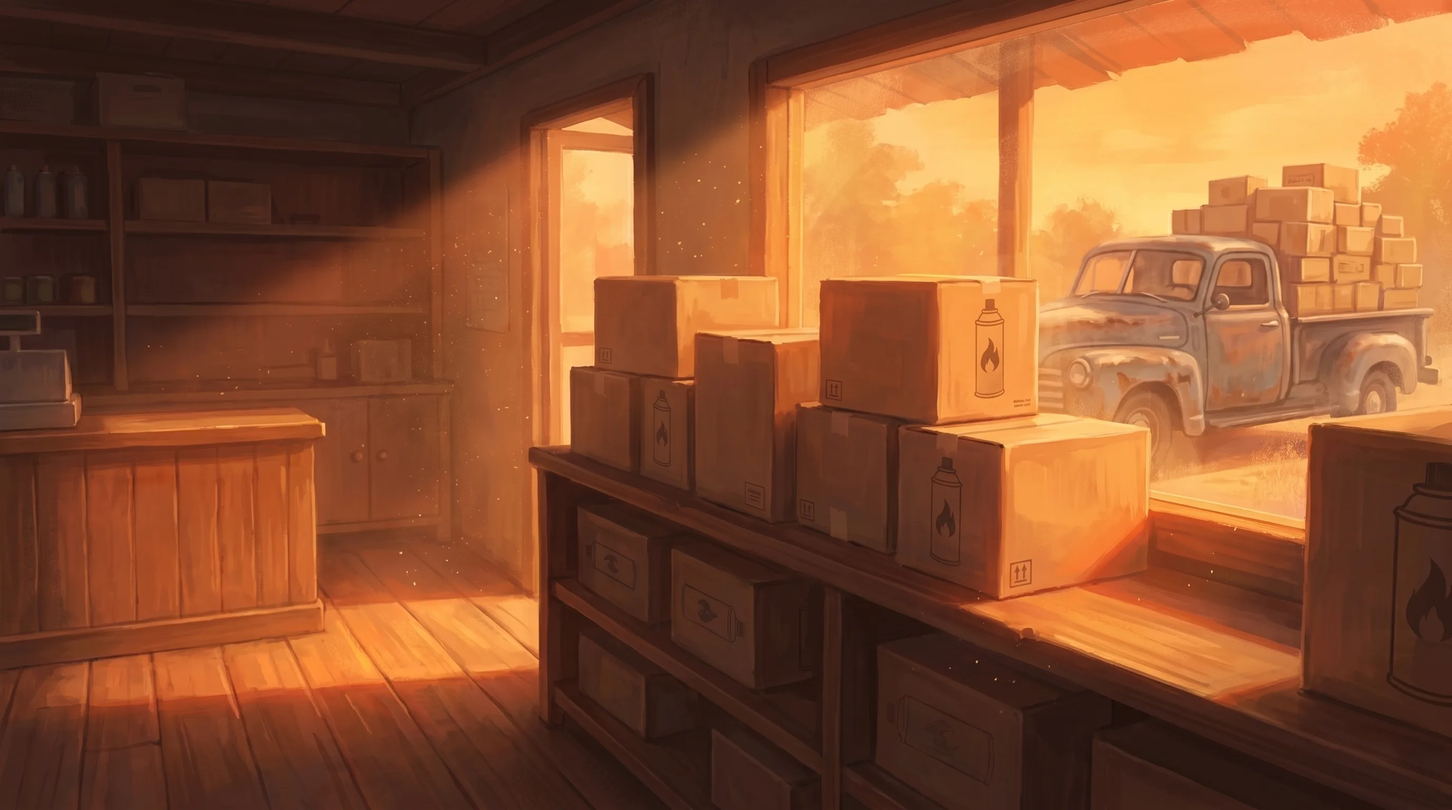
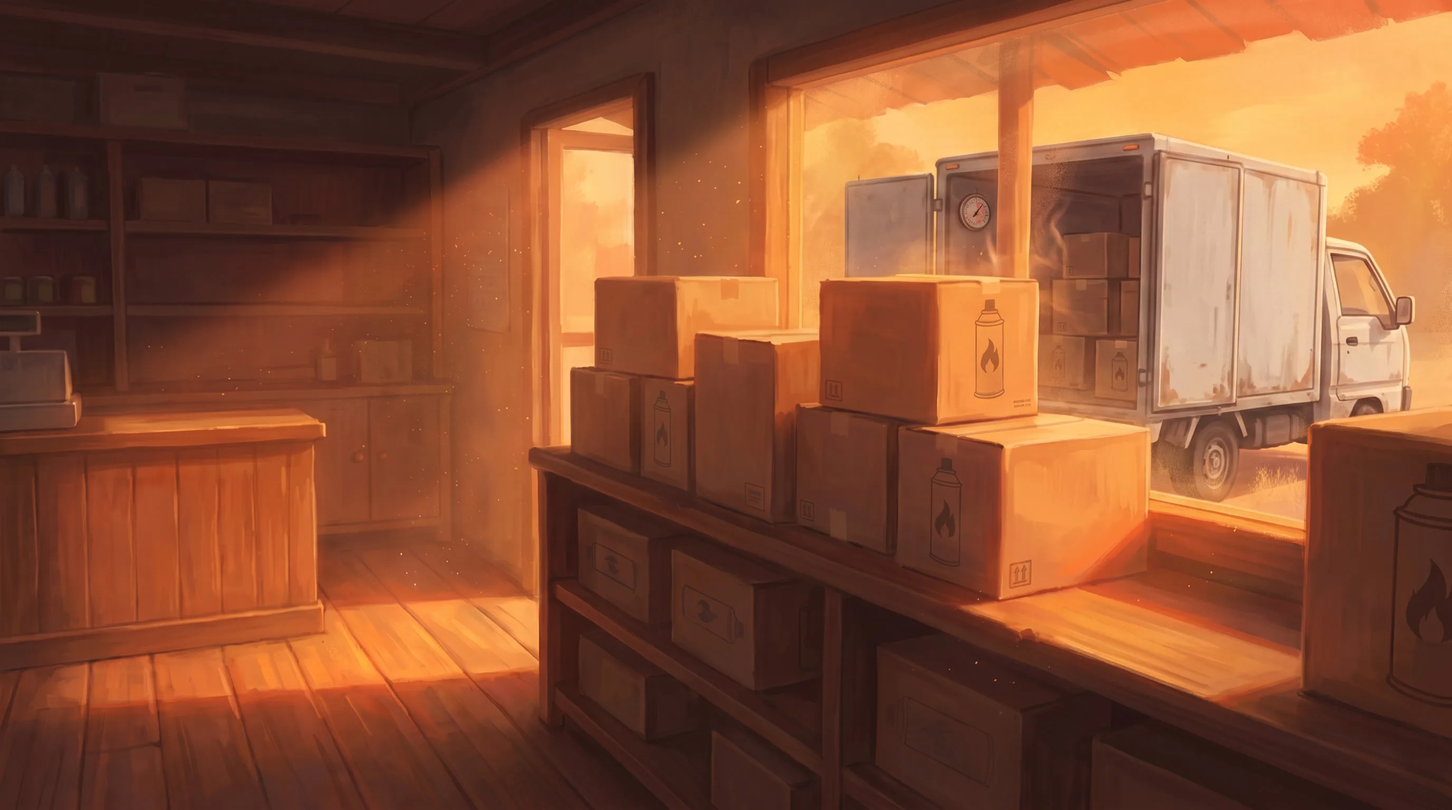
어휘를 초·중·고 눈높이로 낮추고 매점 트럭을 박스형 짐칸으로 교체한다
- 매점 그림: 상자가 트럭 밖에 쌓여 보이던 픽업을, 뒷문이 열린 박스형
  짐칸(탑차) 안에 상자가 실려 있고 안쪽에 온도계가 걸린 모습으로
  재생성 — '여름철 차 안 60℃' 교육 포인트와 그림이 일치하게 된다
- 어휘 순화 약 50건: 호언→큰소리, 실토→고백, 결재란→사장 확인 칸,
  심증→짐작, 혈연→가족·친척, 전조→위험 신호/터지기 직전의 신호,
  결로→김·물방울, 밀폐→꽉 닫힌, 체결→끼워짐, 전량 수거→전부
  거둬들임, 황색·황적색→노랗거나 붉은, 동시다발→한꺼번에,
  각인→새겨진 제조일, 투숙객→(펜션) 손님, 시공기사→설치 기사 등
- 교육 용어는 삭제 대신 괄호 풀이: 삼발이(불판 받침대),
  복사열(불판이 내뿜는 뜨거운 열), 명판(정보판), 헤모글로빈(피 속에서
  산소가 앉을 자리)
- 시나리오 린트(길이·금지문자·참조 무결성)와 전체 플레이 자동 검증
  전 항목 재통과

Claude-Session: https://claude.ai/code/session_01Fh2RqJgq2fRfiCvRSuSJA6

Changed region(s): [[0.5625, 0.1562, 1.0, 0.625], [0.8125, 0.8438, 0.8438, 0.875]]

diff --git a/index.html b/index.html
@@ -626,7 +626,7 @@
     <div class="inspect-stage">
       <div class="inspect-frame corners">
         <canvas id="inspectCanvas"></canvas>
-        <div class="stamp" id="inspectStamp">각인 발견</div>
+        <div class="stamp" id="inspectStamp">제조일 발견</div>
       </div>
       <div class="inspect-hint" id="inspectHint"></div>
     </div>
@@ -664,7 +664,7 @@ const CDN = {
   bbq:       "hf_20260830_072115_62f6d85f-29f7-456d-8ecb-0d0b239367d9.png",
   nextsite:  "hf_20260830_072804_cfa355f0-2b12-44d6-ab17-3af40ef0b33d.png",
   firepit:   "hf_20260830_072804_abbdf6dc-af73-47ec-a43c-f13f3091c863.png",
-  store:     "hf_20260830_072804_e169c3ab-7cf1-45ba-9ebb-c7c429c05c68.png",
+  store:     "hf_20260830_093423_4fd75d13-f33a-4f39-aa3b-bba1befa0dc4.png",
   end1:      "hf_20260830_072804_01d0bb1c-1998-4e6c-9203-d6b1153d2222.png",
   boss:      "hf_20260830_073617_b1add7f9-16a8-4cb9-9c87-09633adcf816.png",
   parttime:  "hf_20260830_073619_e1d8eb9e-8393-4f46-ba37-43a55f4158a9.png",
@@ -833,18 +833,18 @@ const CASE1 = {
   /* ---------- 단서 ---------- */
   CLUES: {
     c1:{ name:"파열된 부탄캔", desc:"옆구리가 찢긴 채 나뒹구는 캔. 터지기 직전의 캔은 부풀어 오르며 쉭쉭 소리를 낸다. 파열방지기능 제품이었다면 찢김 대신 가스 배출로 끝났을 것이다." },
-    c2:{ name:"삼발이보다 큰 불판", desc:"레인지의 삼발이를 완전히 덮는 대형 불판. 복사열이 고스란히 아래 부탄캔을 데워 내부 압력을 키운다 — 부탄캔 5대 금지의 첫 번째 항목이다." },
+    c2:{ name:"삼발이보다 큰 불판", desc:"레인지의 삼발이(불판 받침대)를 완전히 덮는 대형 불판. 불판이 내뿜는 뜨거운 열(복사열)이 고스란히 아래 부탄캔을 데워 캔 속 압력을 키운다 — 부탄캔 5대 금지의 첫 번째 항목이다." },
     c3:{ name:"포일 감은 석쇠", desc:"알루미늄 포일로 꽁꽁 감싼 석쇠. 빠져나가야 할 열이 갇혀 캔 쪽으로 쏠린다. 포일 감은 석쇠·불판 사용은 부탄캔 5대 금지 수칙 중 하나다." },
     c4:{ name:"나란히 붙인 레인지", desc:"휴대용 레인지 2대가 딱 붙어 있다. 옆 화구의 열이 서로의 캔을 데운다 — 여러 대를 붙여 쓰는 병렬 배치도, 위아래로 쌓는 이단 적재도 금지다." },
     c5:{ name:"숯불 곁의 예비 캔", desc:"이글거리는 화로 바로 옆에 부탄캔들이 줄지어 서 있다. 쪽지엔 '찬 캔은 불 옆에서 데우면 잘 나옴'. 화기 근처 방치도, 직접 가열도 절대 금지다." },
-    c6:{ name:"함부로 버려진 폐캔", desc:"캡도 씌우지 않은 폐캔들이 화로 곁에 나뒹군다. 다 쓴 캔은 연소기에서 분리해 캡을 씌워 서늘한 곳에 — 폐기는 야외에서 바람을 등지고 잔가스를 뺀 뒤에 한다." },
+    c6:{ name:"함부로 버려진 폐캔", desc:"캡도 씌우지 않은 폐캔들이 화로 곁에 나뒹군다. 다 쓴 캔은 레인지에서 바로 분리해 캡을 씌워 서늘한 곳에 — 폐기는 야외에서 바람을 등지고 잔가스를 뺀 뒤에 한다." },
     c7:{ name:"볕에 달궈진 재고", desc:"매점 창가, 한여름 직사광선에 달궈진 부탄캔 박스. 제조일이 3년을 넘겼다 — 부탄캔 권장사용기간은 제조일로부터 3년이다." },
-    c8:{ name:"트럭 짐칸의 온도계", desc:"재고를 실어 나르던 트럭 짐칸의 온도계가 60℃ 를 가리킨다. 여름철 차량 내부는 트렁크까지 60℃ 를 넘본다 — 부탄캔 보관은 40℃ 미만 장소가 원칙이다." }
+    c8:{ name:"트럭 짐칸의 온도계", desc:"재고를 실어 나르던 트럭 짐칸 안의 온도계가 60℃ 를 가리킨다. 여름철 차 안은 트렁크까지 60℃ 넘게 치솟는다 — 부탄캔 보관은 40℃ 미만 장소가 원칙이다." }
   },
   TESTI: {
-    t1:{ name:"초롱의 목격담", desc:"\"캔이 부풀면서 쉭쉭 소리가 났어요. 배운 대로 '모두 물러나요!' 하고 소리쳤어요.\" — 파열 전조를 알아챈 열두 살의 외침이 인명피해를 막았다." },
-    t2:{ name:"알바의 해명", desc:"\"부푼 캔을 새것으로 바꾸려 했는데 '가스 아깝다'며 제지당했어요.\" — 잔가스를 아끼려다 목숨을 건다." },
-    t3:{ name:"고수의 호언", desc:"\"20년 그렇게 써도 무사고였소.\" — 사고가 안 났던 습관은 안전의 증거가 아니라, 아직 안 터진 폭탄이다." }
+    t1:{ name:"초롱의 목격담", desc:"\"캔이 부풀면서 쉭쉭 소리가 났어요. 배운 대로 '모두 물러나요!' 하고 소리쳤어요.\" — 터지기 직전의 신호를 알아챈 열두 살의 외침이 인명피해를 막았다." },
+    t2:{ name:"알바의 해명", desc:"\"부푼 캔을 새것으로 바꾸려 했는데 '가스 아깝다'며 막아섰어요.\" — 잔가스를 아끼려다 목숨을 건다." },
+    t3:{ name:"고수의 큰소리", desc:"\"20년 그렇게 써도 무사고였소.\" — 사고가 안 났던 습관은 안전의 증거가 아니라, 아직 안 터진 폭탄이다." }
   },
 
   /* ---------- 방 ---------- */
@@ -852,7 +852,7 @@ const CASE1 = {
     bbq:{ title:"사고 그늘막", img:"bbq", spots:[
       { label:"터진 부탄캔을 살펴본다", clue:"c1" },
       { label:"레인지와 불판을 살펴본다", clue:"c2" },
-      { label:"캔 바닥의 각인을 확인한다", inspect:"can", needs:"c1" } ] },
+      { label:"캔 바닥을 뒤집어 살펴본다", inspect:"can", needs:"c1" } ] },
     nextsite:{ title:"옆 사이트", img:"nextsite", spots:[
       { label:"포일 감은 석쇠를 살펴본다", clue:"c3" },
       { label:"레인지 두 대를 살펴본다", clue:"c4" } ] },
@@ -867,7 +867,7 @@ const CASE1 = {
   /* ---------- 인물 ---------- */
   PEOPLE: {
     boss:{ name:"나원래 · 사장(56)", img:"boss",
-      desc:"캠핑장 '별무리'의 사장. 손님에게 늘 서비스를 돌리는 호인 — 오늘따라 낯빛이 어둡다.",
+      desc:"캠핑장 '별무리'의 사장. 손님에게 늘 서비스를 돌리는 마음 좋은 아저씨 — 오늘따라 얼굴빛이 어둡다.",
       qs:[
         { q:"사고 당시 어디 계셨습니까?",
           a:"매점 마감 정리 중이었죠. 펑 소리에 심장이 내려앉았습니다. 크게 다친 분이 없다는 게 기적이에요." },
@@ -887,17 +887,17 @@ const CASE1 = {
           a:"네! 부푼 캔을 빼려는데 옆 사이트 아저씨가 '가스 반이나 남았는데 아깝게 왜 바꾸냐'며 도로 끼우게 했어요. 잔가스 아끼려다 큰일 난다는 걸 다들 몰라요." }
       ]},
     camper:{ name:"구백동 · 캠퍼(51)", img:"camper",
-      desc:"옆 사이트의 자칭 '캠핑 20년 고수'. 장비 자랑이 길어질수록 눈빛이 흔들린다.",
+      desc:"스스로를 '캠핑 20년 고수'라 부르는 옆 사이트 아저씨. 장비 자랑이 길어질수록 눈빛이 흔들린다.",
       qs:[
         { q:"어젯밤 뭘 하고 계셨죠?",
           a:"내 사이트에서 고기 굽고 있었죠. 내 장비 보셨소? 20년 캠핑에 사고 한 번 없었습니다. 이번 일은 저 알바가 뭘 잘못 만졌겠지." },
         { q:"저 대형 불판, 당신 겁니까?", need:"c2",
           a:"빌려준 거요. 삼발이보다 커야 고기가 많이 올라가지. 다들 그렇게 씁니다. 포일? 기름 안 튀게 감은 건데 그게 왜요?" },
         { q:"알바를 막아섰다면서요?", need:"t2", testi:"t3",
-          a:"…가스가 반이나 남았는데 버리면 낭비 아니오. 20년을 그렇게 썼어도 무사했단 말이오. (목소리가 점점 잦아든다) …어제까지는." }
+          a:"…가스가 반이나 남았는데 버리면 낭비 아니오. 20년을 그렇게 썼어도 무사했단 말이오. (목소리가 점점 작아진다) …어제까지는." }
       ]},
     daughter:{ name:"김초롱 · 초등학생(12)", img:"daughter",
-      desc:"피해 가족의 딸. 놀란 기색보다 또렷한 눈빛이 앞선다 — 무언가 확실히 보고 들었다.",
+      desc:"피해 가족의 딸. 놀란 얼굴보다 또렷한 눈빛이 앞선다 — 무언가 확실히 보고 들었다.",
       qs:[
         { q:"어제 일을 말해줄 수 있니?",
           a:"고기 굽는데 캔 쪽에서 쉭쉭 소리가 났어요. 학교 안전교육에서 '캔이 부풀면 위험 신호'라고 배웠는데, 딱 그거였어요." },
@@ -916,9 +916,9 @@ const CASE1 = {
     { name:"한세인", text:"단서 8개를 모으고 사람들의 이야기를 들은 뒤, 이 파열음의 진짜 원인을 가려내자.", img:"bbq", pt:"detective" }
   ],
   REVEAL: [
-    { name:"한세인", text:"결론부터 말씀드리죠. 이 사고의 범인은 한 사람이 아닙니다 — 다섯 겹으로 쌓인 안전불감증입니다.", pt:"detective", img:"bbq" },
+    { name:"한세인", text:"결론부터 말씀드리죠. 이 사고의 범인은 한 사람이 아닙니다 — '설마 괜찮겠지'가 다섯 겹으로 쌓인 안전불감증입니다.", pt:"detective", img:"bbq" },
     { name:"한세인", text:"삼발이보다 큰 불판이 복사열로 캔을 데웠습니다. 그 캔은 제조 3년을 넘긴 채, 60℃ 트럭 짐칸에서 여름을 난 재고였고요.", pt:"detective", img:"store" },
-    { name:"나원래", text:"아깝다고 돌린 서비스가… 폭탄을 돌린 꼴이 됐군요. 재고는 전량 수거하고, 보관도 규정대로 하겠습니다.", pt:"boss", img:"store" },
+    { name:"나원래", text:"아깝다고 돌린 서비스가… 폭탄을 돌린 꼴이 됐군요. 재고는 전부 거둬들이고, 보관도 규정대로 하겠습니다.", pt:"boss", img:"store" },
     { name:"구백동", text:"'다들 그렇게 쓴다'는 말, 오늘부로 접겠소. 20년 무사고가 아니라 20년 운이 좋았던 거였어. 불판도 포일도 싹 바꾸리다.", pt:"camper", img:"nextsite" },
     { name:"한세인", text:"그리고 한여름 씨 — 당신은 범인이 아니라, 유일하게 수칙을 지키려던 사람입니다. 부푼 캔을 빼려던 그 손이 옳았습니다.", pt:"parttime", img:"firepit" },
     { name:"김초롱", text:"헤헤. 학교에서 배운 대로 했을 뿐인데… 아저씨들, 이제 제 말 믿을 거죠?", pt:"daughter", img:"bbq" },
@@ -930,25 +930,25 @@ const CASE1 = {
     { q:"Q1. 부탄캔을 터뜨린 직접 원인은 무엇인가?",
       opts:["불량 캔이 저절로 터졌다","알바생이 캔을 잘못 끼웠다","삼발이보다 큰 불판의 복사열","숯불의 불똥이 튀었다"], ans:2,
       fb:["아니다. 캔은 터질 조건이 갖춰져야 터진다 — 원인은 사용 환경에 있었다.",
-          "캔은 정상 체결돼 있었다. 그는 오히려 부푼 캔을 빼려던 사람이다.",
+          "캔은 제대로 끼워져 있었다. 그는 오히려 부푼 캔을 빼려던 사람이다.",
           "정답. 삼발이를 덮는 큰 불판은 복사열을 캔에 쏟아 내부 압력을 키운다 — 5대 금지의 첫 번째 항목이다.",
           "화로는 멀리 있었다. 불똥이 아니라 '열'이 범인이다."] },
     { q:"Q2. 그 캔이 유독 위험했던 이유는?",
       opts:["제조 3년 경과에 여름 트럭 보관","수입산 캔이라서","용량이 작은 캔이라서","알바생이 캔을 흔들어서"], ans:0,
       fb:["정답. 권장사용기간 3년을 넘긴 캔이 60℃ 짐칸에서 여름을 났다 — 보관은 40℃ 미만이 원칙이다.",
-          "원산지가 아니라 제조일과 보관 상태가 문제다. KC 인증과 제조일을 확인하자.",
+          "어느 나라 제품인지가 아니라 제조일과 보관 상태가 문제다. KC 인증과 제조일을 확인하자.",
           "용량과는 무관하다. 어떤 캔이든 3년·40℃ 원칙은 같다.",
           "흔들림은 파열 원인이 아니다. 부푼 캔을 발견해 교체하려던 행동은 옳았다."] },
     { q:"Q3. 한여름 씨가 범인이 아닌 결정적 근거는?",
-      opts:["평소 성실하다는 평판","사장의 친척이라서","현장에 없었다는 알리바이","부푼 캔을 교체하려다 제지당했다"], ans:3,
-      fb:["심증일 뿐이다. 탐정은 증거로 말한다.",
-          "혈연은 증거가 아니다. 애초에 친척도 아니다.",
+      opts:["평소 성실하다는 평판","사장의 친척이라서","현장에 없었다는 알리바이","부푼 캔을 바꾸려다 가로막혔다"], ans:3,
+      fb:["그건 짐작일 뿐이다. 탐정은 증거로 말한다.",
+          "가족·친척이라는 건 증거가 아니다. 게다가 애초에 친척도 아니다.",
           "그는 현장에 있었다 — 있었기에 이상 징후를 본 것이다.",
-          "정답. 전조를 알아채고 새 캔으로 바꾸려던 사람이 사고를 만들 리 없다 — 초롱과 본인의 증언이 겹친다."] },
+          "정답. 위험 신호를 알아채고 새 캔으로 바꾸려던 사람이 사고를 만들 리 없다 — 초롱과 본인의 증언이 겹친다."] },
     { q:"Q4. 인명피해를 막은 결정적 행동은?",
-      opts:["물을 뿌려 캔을 식혔다","전조를 알아채고 즉시 대피시켰다","캔을 집어 멀리 던졌다","불판을 맨손으로 치웠다"], ans:1,
+      opts:["물을 뿌려 캔을 식혔다","위험 신호를 알아채고 즉시 대피시켰다","캔을 집어 멀리 던졌다","불판을 맨손으로 치웠다"], ans:1,
       fb:["이미 부풀어 오른 캔 곁에 다가가는 것부터가 위험하다. 최선은 즉시 거리를 확보하는 것이다.",
-          "정답. 부풂과 쉭쉭 소리 — 파열 전조를 배운 대로 알아채고 '모두 물러나요!'를 외쳤다.",
+          "정답. 부풀어 오름과 쉭쉭 소리 — 터지기 직전의 신호를 배운 대로 알아채고 '모두 물러나요!'를 외쳤다.",
           "부푼 캔을 만지는 것 자체가 위험천만이다. 사람이 물러나는 게 먼저다.",
           "맨손으로 만졌다면 화상 피해자가 한 명 늘었을 것이다."] }
   ],
@@ -956,10 +956,10 @@ const CASE1 = {
   deduceIntro:{ name:"한세인", text:"단서는 모두 모였다. 이 사고는 우연이 아니라 겹겹의 부주의였다 — 모두 화로터로 모여 주시죠.", pt:"detective", img:"firepit" },
   regroup:{ name:"한세인", text:"…성급했다. 랜턴을 다시 켜고 수첩을 처음부터 훑자. 사고 원인은 도망가지 않는다.", pt:"detective", img:"bbq" },
   ending:{ img:"end1", title:"조사 종결 — 한여름 밤의 파열음",
-    text:"다음 날 아침, 별무리 캠핑장에 새 안전 수칙 안내판이 섰다. 묵은 재고는 전량 수거됐고, 옆 사이트엔 삼발이에 꼭 맞는 불판이 올랐다. 안전은 아는 만큼 지켜진다 — 그날 밤, 탐정의 수첩에 눈 덮인 펜션의 의뢰가 도착했다.",
+    text:"다음 날 아침, 별무리 캠핑장에 새 안전 수칙 안내판이 섰다. 오래 묵은 재고는 전부 거둬들였고, 옆 사이트엔 삼발이에 꼭 맞는 불판이 올랐다. 안전은 아는 만큼 지켜진다 — 그날 밤, 탐정의 수첩에 눈 덮인 펜션의 의뢰가 도착했다.",
     recap:[
       "불판은 삼발이보다 작게, 포일 금지",
-      "병렬 사용·화기 곁 방치·가열 금지",
+      "붙여 쓰기·불 옆 두기·데우기 금지",
       "사용 후 분리, 보관은 40℃ 미만",
       "3년 지난 캔 금지 — 제조일 확인",
       "부풀고 쉭쉭 소리 나면 즉시 대피"
@@ -982,15 +982,15 @@ const CASE2 = {
     c2:{ name:"찌그러진 연통", desc:"지붕에서 떨어진 눈덩이에 연통 끝이 눌려 있다. 배기통 점검 3종 — 이탈·찌그러짐·이물질 — 폭설 뒤엔 반드시 연통부터 살펴야 한다." },
     c3:{ name:"연통 속 새 둥지", desc:"연통 안에 마른 나뭇가지가 가득하다. 막힌 연통은 배기가스를 실내로 되돌린다 — 점검 3종의 마지막, 내부 이물질이다." },
     c4:{ name:"침묵한 CO경보기", desc:"천장 바로 아래 벽에 달린 일산화탄소 경보기. 2020년 8월부터 신규 보일러 시설에 설치 의무 — 벽에 달 때는 천장에서 15cm, 천장에 달 때는 벽에서 30cm 띄운다. 그런데 왜 울리지 않았을까." },
-    c5:{ name:"황색 불꽃", desc:"레인지 불꽃이 노랗게 흔들린다. 파란 불꽃이 정상 — 황색·적색 불꽃은 불완전연소, 곧 일산화탄소가 만들어지고 있다는 신호다." },
-    c6:{ name:"결로 낀 닫힌 창", desc:"한파에 창을 꼭 닫은 채 밤을 났다 — 유리에 결로가 가득하다. 겨울에도 최소 2시간마다 환기가 원칙이다. 밀폐는 중독의 공범이다." },
-    c7:{ name:"보류된 점검 신청서", desc:"찬장 서랍 깊숙이 치워져 있던 관리인의 신청서 — '배기통 노후, 교체 요망'. 결재란엔 '내년 예산에서'라는 메모뿐이다. 가스보일러는 1년 1회 이상 전문가 점검이 원칙이다." },
-    c8:{ name:"낡은 보일러 명판", desc:"명판의 설치 연도는 12년 전. 보일러 권장사용기간은 10년이다 — 수명을 넘긴 기계일수록 해마다 점검이 절실하다." }
+    c5:{ name:"노란 불꽃", desc:"레인지 불꽃이 노랗게 흔들린다. 파란 불꽃이 정상 — 노랗거나 붉은 불꽃은 불완전연소, 곧 일산화탄소가 만들어지고 있다는 신호다." },
+    c6:{ name:"김 서린 닫힌 창", desc:"한파에 창을 꼭 닫은 채 밤을 났다 — 유리에 김이 뿌옇게 서려 물방울이 맺혔다. 겨울에도 최소 2시간마다 환기가 원칙이다. 꽉 닫힌 방은 중독의 공범이다." },
+    c7:{ name:"보류된 점검 신청서", desc:"찬장 서랍 깊숙이 치워져 있던 관리인의 신청서 — '배기통 노후, 교체 요망'. 사장 확인 칸엔 '내년 예산에서'라는 메모뿐이다. 가스보일러는 1년 1회 이상 전문가 점검이 원칙이다." },
+    c8:{ name:"낡은 보일러 명판", desc:"보일러에 붙은 정보판(명판)의 설치 연도는 12년 전. 보일러 권장사용기간은 10년이다 — 수명을 넘긴 기계일수록 해마다 점검이 절실하다." }
   },
   TESTI: {
     t1:{ name:"설아의 증언", desc:"\"머리가 깨질 듯 아픈데, 가스 냄새는 전혀 없었어요.\" — 연료가스엔 부취제(달걀 썩는 냄새)를 넣지만, 일산화탄소는 원래부터 무색무취다." },
-    t2:{ name:"파랑의 기억", desc:"\"불꽃이 파란색이 아니라 노란색이었어요.\" — 황·적색 불꽃은 불완전연소의 신호. 그때 이미 일산화탄소는 만들어지고 있었다." },
-    t3:{ name:"사장의 실토", desc:"\"삑삑대는 경보기가 시끄러워 건전지를 뺐습니다.\" — 경보음은 오작동이 아니라 경고다. 끄지 말고 원인을 확인해야 한다." }
+    t2:{ name:"파랑의 기억", desc:"\"불꽃이 파란색이 아니라 노란색이었어요.\" — 노랗거나 붉은 불꽃은 불완전연소의 신호. 그때 이미 일산화탄소는 만들어지고 있었다." },
+    t3:{ name:"사장의 고백", desc:"\"삑삑대는 경보기가 시끄러워 건전지를 뺐습니다.\" — 경보음은 오작동이 아니라 경고다. 끄지 말고 원인을 확인해야 한다." }
   },
 
   /* ---------- 방 ---------- */
@@ -1018,19 +1018,19 @@ const CASE2 = {
         { q:"어젯밤 상황을 설명해 주시죠",
           a:"새벽에 관리인이 문이란 문을 다 두드리며 깨웠습니다. 손님들이 어지럽다고 해서 창을 열고 눈밭으로 모셨죠. 가스 냄새는 전혀 없었는데, 대체 뭐가 문제랍니까?" },
         { q:"점검 신청서를 보류하셨죠?", need:"c7",
-          a:"…겨울 성수기에 보일러를 세우면 장사는 어쩝니까. 배기통 하나가 얼마나 한다고… 내년에 하려 했습니다. 정말입니다." },
+          a:"…손님이 가장 많은 겨울에 보일러를 세우면 장사는 어쩝니까. 배기통 하나가 얼마나 한다고… 내년에 하려 했습니다. 정말입니다." },
         { q:"경보기 건전지를 뺐습니까?", need:"c4", testi:"t3",
           a:"(한참 만에) …가끔 삑삑대는 게 오작동인 줄 알았습니다. 손님들이 시끄럽다길래 그만… 그게 바꿔 달라는 신호인 줄은 몰랐습니다." }
       ]},
     keeper:{ name:"온수철 · 관리인(63)", img:"keeper",
-      desc:"전직 보일러 시공기사 출신 관리인. 말수가 적고, 그래서 더 의심받는다.",
+      desc:"보일러 설치 기사로 일했던 관리인. 말수가 적고, 그래서 더 의심받는다.",
       qs:[
         { q:"그제 지붕엔 왜 올라갔죠?",
           a:"폭설 예보가 있었으니까. 눈을 쓸고 연통을 봐 두려 했소. …내려와서 교체 신청서를 쓴 것도 그래서요." },
         { q:"보일러 상태를 알고 있었나요?", need:"c1",
           a:"연결부가 헐거워진 지 오래요. 설치 12년 된 보일러요. 서면으로 두 번 올렸소. 답은… 보류, 또 보류였소." },
         { q:"새벽에 어떻게 알아챘습니까?", need:"t1",
-          a:"두통에 잠이 깼는데 가스 냄새가 없더군. 시공 일 할 때 배웠소 — 냄새 없는 두통은 일산화탄소부터 의심하라고. 그래서 문이란 문은 다 두드렸소." }
+          a:"두통에 잠이 깼는데 가스 냄새가 없더군. 보일러 일을 하며 배웠소 — 냄새 없는 두통은 일산화탄소부터 의심하라고. 그래서 문이란 문은 다 두드렸소." }
       ]},
     guest:{ name:"유설아 · 등산객(29)", img:"guest",
       desc:"폭설로 하산을 미룬 등산객. 창백한 얼굴로 담요를 두르고 있다.",
@@ -1042,8 +1042,8 @@ const CASE2 = {
         { q:"누가 당신을 깨웠죠?", need:"t2",
           a:"관리인 아저씨요. 문을 부서져라 두드리셨어요. 그분이 아니었으면… 생각만 해도 아찔해요. 눈밭까지 부축해 주셨고요." }
       ]},
-    child:{ name:"김파랑 · 투숙객 아이(11)", img:"child",
-      desc:"가족과 투숙한 아이. 어젯밤 물을 마시러 주방에 다녀왔다.",
+    child:{ name:"김파랑 · 펜션 손님(11)", img:"child",
+      desc:"가족과 함께 묵고 있는 아이. 어젯밤 물을 마시러 주방에 다녀왔다.",
       qs:[
         { q:"어젯밤 주방에 갔었니?",
           a:"목말라서 물 뜨러요. 근데 냄비 밑의 불이 이상했어요. 우리 집 가스불은 파란색인데, 여기 건 노랗고 흐물흐물 흔들렸어요." },
@@ -1056,17 +1056,17 @@ const CASE2 = {
 
   /* ---------- 프롤로그 / 진상 ---------- */
   PROLOGUE: [
-    { name:"내레이션", text:"폭설이 이틀째 이어진 밤, 언덕 위 펜션 '설래원'. 새벽, 투숙객들이 두통과 어지럼을 호소하며 눈밭으로 뛰쳐나왔다. 가스 냄새는 — 없었다.", img:"cover2" },
+    { name:"내레이션", text:"폭설이 이틀째 이어진 밤, 언덕 위 펜션 '설래원'. 새벽, 손님들이 머리가 아프고 어지럽다며 눈밭으로 뛰쳐나왔다. 가스 냄새는 — 없었다.", img:"cover2" },
     { name:"방한욱", text:"탐정님, 이 눈길에 와 주셔서 감사합니다. 냄새도 없고 경보기도 조용했는데 다들 쓰러질 뻔했어요. 귀신이 곡할 노릇 아닙니까.", img:"cover2", pt:"host" },
     { name:"한세인", text:"냄새 없이 사람을 쓰러뜨리는 손님이 하나 있지. 무색, 무취 — 아무도 초대한 적 없는 다섯 번째 손님.", img:"guestroom", pt:"detective" },
     { name:"한세인", text:"단서 8개와 증언이 필요하다. 그 손님이 어디로 들어왔는지, 왜 아무도 몰랐는지 밝혀내자.", img:"guestroom", pt:"detective" }
   ],
   REVEAL: [
-    { name:"한세인", text:"범인의 이름은 일산화탄소. 색도 냄새도 없이 산소보다 먼저 헤모글로빈을 차지하는 — 보이지 않는 손님입니다.", pt:"detective", img:"guestroom" },
+    { name:"한세인", text:"범인의 이름은 일산화탄소. 색도 냄새도 없이, 피 속에서 산소가 앉을 자리(헤모글로빈)를 먼저 차지하는 — 보이지 않는 손님입니다.", pt:"detective", img:"guestroom" },
     { name:"한세인", text:"침입 경로는 배기통입니다. 빠진 연결부, 눈에 찌그러진 끝, 둥지로 막힌 속 — 점검 3종이 전부 무너져 배기가스가 실내로 되돌아왔죠.", pt:"detective", img:"boilerroom" },
-    { name:"방한욱", text:"경보기만 살아 있었어도… 건전지를 뺀 건 저였습니다. 교체 신청을 눌러앉힌 것도요. 시끄럽다고 끈 그 소리가, 목숨을 살리는 소리였군요.", pt:"host", img:"guestroom" },
+    { name:"방한욱", text:"경보기만 살아 있었어도… 건전지를 뺀 건 저였습니다. 교체 신청을 미룬 것도요. 시끄럽다고 끈 그 소리가, 목숨을 살리는 소리였군요.", pt:"host", img:"guestroom" },
     { name:"한세인", text:"그리고 온수철 씨 — 당신은 용의자가 아니라 이 사건의 구조자입니다. 냄새 없는 두통에서 일산화탄소를 의심하고 모두를 깨웠으니까요.", pt:"keeper", img:"boilerroom" },
-    { name:"온수철", text:"…시공 일 30년에 배운 건 하나요. 보일러는 정직하다는 것. 게으른 건 언제나 사람 쪽이지. (그가 처음으로 길게 말했다)", pt:"keeper", img:"boilerroom" },
+    { name:"온수철", text:"…보일러 일 30년에 배운 건 하나요. 보일러는 정직하다는 것. 게으른 건 언제나 사람 쪽이지. (그가 처음으로 길게 말했다)", pt:"keeper", img:"boilerroom" },
     { name:"정확한", text:"가스안전 조사관 정확한입니다. 배기통 이탈 사고는 사망률이 다른 가스사고의 5.8배 — 여러분은 운이 좋았습니다. 아니, 좋은 이웃을 뒀습니다.", pt:"inspector", img:"cover2" },
     { name:"한세인", text:"경보기는 5년마다, 점검은 1년마다, 환기는 2시간마다. — 보이지 않는 손님을 막는 것은, 보이는 습관들이다.", pt:"detective", img:"end2" }
   ],
@@ -1076,14 +1076,14 @@ const CASE2 = {
     { q:"Q1. 손님들을 쓰러뜨린 '범인'의 정체는?",
       opts:["LPG 가스 누출","일산화탄소(CO)","상한 저녁 식사","독한 감기 바이러스"], ans:1,
       fb:["연료가스라면 부취제 — 달걀 썩는 냄새가 났을 것이다. 아무 냄새도 없었다.",
-          "정답. 무색무취의 일산화탄소는 산소보다 쉽게 헤모글로빈과 결합해 두통·어지럼, 심하면 사망에 이른다.",
-          "전원이 같은 시각, 같은 증상 — 음식이라기엔 너무 동시다발적이다.",
-          "한밤에 전원이 동시에 앓는 감기는 없다. 눈밭에 나가자 나아진 것도 설명되지 않는다."] },
+          "정답. 무색무취의 일산화탄소는 산소 대신 피에 먼저 달라붙는다. 머리가 아프고 어지럽다가, 심하면 목숨을 잃는다.",
+          "모두가 같은 시각, 같은 증상 — 음식 탓이라기엔 너무 한꺼번에 일어났다.",
+          "한밤에 모두가 동시에 앓는 감기는 없다. 눈밭에 나가자 나아진 것도 설명되지 않는다."] },
     { q:"Q2. 일산화탄소는 어디로 들어왔는가?",
-      opts:["밤새 열린 현관문","주방 레인지의 황색 불꽃","창문 틈새의 외풍","무너진 배기통 — 이탈·찌그러짐·막힘"], ans:3,
-      fb:["문은 밤새 닫혀 있었다. 문제는 문이 아니라 관(管)이다.",
-          "황색 불꽃도 일산화탄소를 만들지만, 사람을 쓰러뜨린 주범은 보일러 배기가스였다.",
-          "창은 결로가 낄 만큼 꼭 닫혀 있었다. 외풍이 아니라 밀폐가 문제였다.",
+      opts:["밤새 열린 현관문","주방 레인지의 노란 불꽃","창문 틈새의 찬바람","무너진 배기통 — 이탈·찌그러짐·막힘"], ans:3,
+      fb:["문은 밤새 닫혀 있었다. 문제는 문이 아니라 배기관이다.",
+          "노란 불꽃도 일산화탄소를 만들지만, 사람을 쓰러뜨린 주범은 보일러 배기가스였다.",
+          "창은 김이 서릴 만큼 꼭 닫혀 있었다. 틈새 바람이 아니라 꽉 닫힌 공기가 문제였다.",
           "정답. 연결부는 빠지고, 끝은 찌그러지고, 속은 막혔다 — 배기가스가 갈 곳은 실내뿐이었다."] },
     { q:"Q3. CO경보기가 침묵한 이유는?",
       opts:["수명 초과에 건전지까지 빠져 있었다","애초에 설치되지 않았다","일산화탄소 농도가 낮아서","경보기는 원래 CO를 못 잡는다"], ans:0,
@@ -1094,7 +1094,7 @@ const CASE2 = {
     { q:"Q4. 이 사고를 막을 수 있었던 예방책은?",
       opts:["향초를 피워 냄새를 채운다","창문을 더 단단히 닫는다","연 1회 점검과 경보기 관리","보일러를 더 세게 돌린다"], ans:2,
       fb:["향은 일산화탄소를 못 막는다. 무취의 적은 기계(경보기)로 잡는 것이다.",
-          "밀폐는 공범이다. 한파에도 2시간마다 환기가 원칙이다.",
+          "꽉 닫아두면 오히려 위험하다. 한파에도 2시간마다 환기가 원칙이다.",
           "정답. 보일러는 1년 1회 이상 점검, 경보기는 5년마다 교체, 울리면 끄지 말 것 — 세 가지면 충분했다.",
           "배기가 무너진 보일러를 세게 돌리면 일산화탄소만 늘어난다."] }
   ],
@@ -1108,7 +1108,7 @@ const CASE2 = {
       "보일러 점검은 1년에 1회 이상",
       "경보기 교체는 5년마다, 끄지 말 것",
       "한파에도 2시간마다 환기",
-      "황색 불꽃은 불완전연소 경고"
+      "노란 불꽃은 불완전연소 경고"
     ] }
 };
 
@@ -1129,12 +1129,12 @@ const INSPECT = {
   MODELS: {
     can: { T:2.1, scF:0.20, shadowY:1.6, baseF:224, baseB:206, front:'nozzle',
       lines:[['MFG 2023.05',-6,11],['BUTANE 220g',9,6.5]],
-      hintTurn:'드래그해 캔을 돌려 바닥을 확인하십시오',
-      hintFound:'바닥 각인 — 권장사용기간 3년을 넘긴 캔이다',
-      stamp:'각인 발견' },
+      hintTurn:'드래그해서 캔을 돌려 바닥을 확인해 보세요',
+      hintFound:'바닥에 새겨진 제조일 — 권장사용기간 3년이 지난 캔이다',
+      stamp:'제조일 발견' },
     alarm: { T:0.34, scF:0.30, shadowY:1.25, baseF:246, baseB:230, front:'vents',
       lines:[['CO ALARM',-11,8.5],['제조 2019.11',1,7],['권장 교체 5년',11,6.5]],
-      hintTurn:'드래그해 경보기를 뒤집어 보십시오',
+      hintTurn:'드래그해서 경보기를 뒤집어 보세요',
       hintFound:'뒷면 라벨 — 교체주기 5년을 넘긴 경보기다',
       stamp:'라벨 확인' }
   },

diff --git a/README.md b/README.md
@@ -17,7 +17,7 @@
   보관은 **40℃ 미만**, 부풂·쉭쉭 소리는 파열 전조 — 만지지 말고 즉시 대피.
 - **사건 2 — 보일러 일산화탄소** : 배기통 점검 **3종**(이탈 · 찌그러짐 · 이물질),
   CO는 **무색무취**(연료가스의 부취제와 다르다), CO경보기 교체주기 **5년**,
-  보일러 점검 **연 1회 이상**, 한파에도 **2시간마다 환기**, 황·적색 불꽃은 불완전연소 신호.
+  보일러 점검 **연 1회 이상**, 한파에도 **2시간마다 환기**, 노랗거나 붉은 불꽃은 불완전연소 신호.
 
 ## 실행
 
@@ -66,7 +66,7 @@ const CASES = { case1:CASE1, case2:CASE2, case3:CASE3 };
 
 | 모델 key | 물체 | 뒷면에서 확인하는 것 |
 |---|---|---|
-| `can` | 부탄캔 | 바닥 각인의 제조일 — 권장사용기간 3년 초과 |
+| `can` | 부탄캔 | 바닥에 새겨진 제조일 — 권장사용기간 3년 초과 |
 | `alarm` | CO경보기 | 뒷면 라벨의 제조연월 — 교체주기 5년 초과 |
 
 두께·배율·앞면 무늬·각인 문구는 `INSPECT.MODELS` 표에만 있고,
